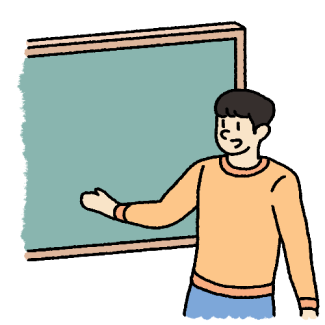
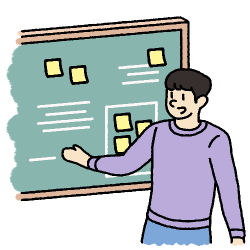
updated Services section
- updated sketches
- changed to match Services page hero

diff --git a/sections/About/Services.js b/sections/About/Services.js
@@ -5,21 +5,20 @@ const Services = ({ servicesData }) => {
   return (
     <section className="px-4 sm:px-32 py-2 mb-16 lg:mb-36 flex flex-col justify-center lg:justify-between items-center h-auto">
       {/* Header*/}
-      <div className="pb-3 lg:pb-0">
-        <h1 className="text-black text-3xl lg:text-5xl mb-6 lg:mb-12">
-          Our services
-        </h1>
-      </div>
+      <h1 className="text-black text-3xl lg:text-5xl mb-6 lg:mb-12">
+        Our services
+      </h1>
+
       {/* Service Container*/}
-      <div className="flex flex-col items-center w-full md:justify-center">
+      <div className="flex flex-col md:flex-row w-full md:justify-center">
         {/* Service */}
         {servicesData.slice(0, 3).map((item, index) => {
           return (
             <div
-              className={`2xl:px-72 pb-2 flex flex-col md:flex-row items-center justify-center w-full`}
+              className={`flex flex-col items-center w-full`}
               key={index}
             >
-              <div className="p-24 mr-0 md:mr-28 relative h-24 md:h-36 lg:h-44 2xl:h-72">
+              <div className="p-24 relative h-24 md:h-36 lg:h-44 2xl:h-72 2xl:w-72">
                 <Image
                   src={
                     item.Image === null ? "/images/placeholder.png" : item.Image
@@ -32,7 +31,7 @@ const Services = ({ servicesData }) => {
               </div>
 
               {/* Services Text */}
-              <div className="w-full lg:w-1/2 flex flex-col text-center md:text-left">
+              <div className="w-full flex flex-col text-center">
                 <h2 className="text-black text-base lg:text-xl 2xl:text-2xl my-4">
                   {item.Title}
                 </h2>

diff --git a/sections/About/Hero.js b/sections/About/Hero.js
@@ -22,7 +22,7 @@ const Hero = () => {
           discipline and methodologies.
         </p>
       </div>
-      {/** IMAGE */}
+      {/* IMAGE */}
       <div className="w-full lg:w-1/2 pb-2 lg:pb-0 text-center">
         <Image
           src="/images/home-1.png"
